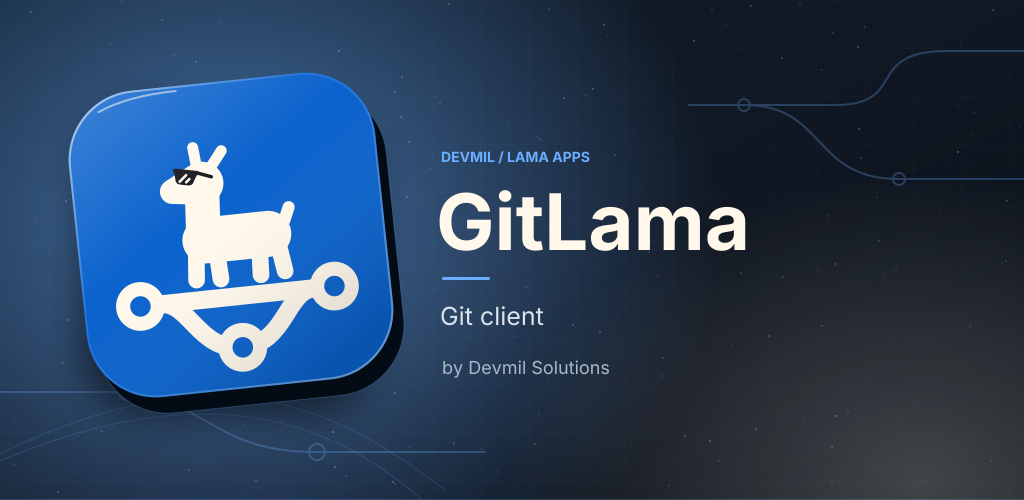
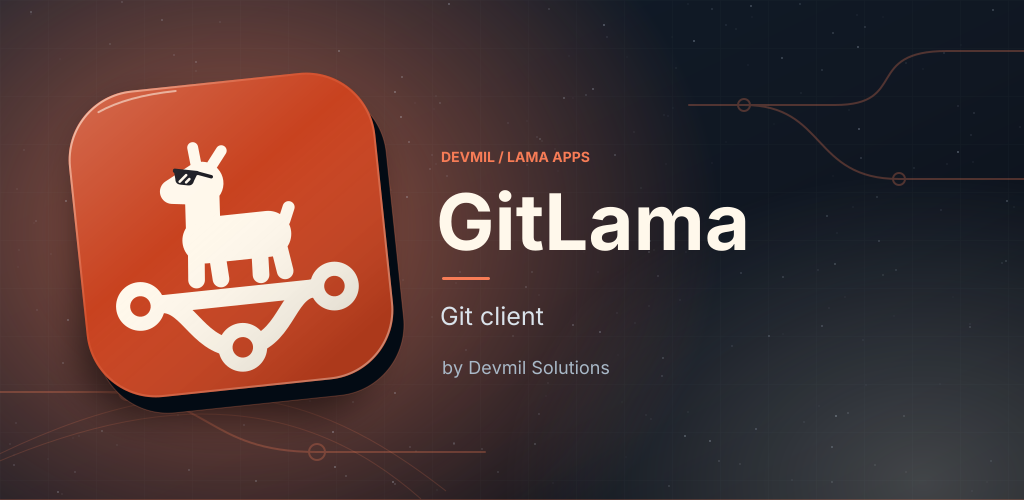
Sync website from Forgejo
Mirrored from 39ee3dba87409b9ac7bc3bf95918a014e00b3d59.

diff --git a/webfront/index.html b/webfront/index.html
@@ -11,26 +11,26 @@
   <meta property="og:type" content="website">
   <meta property="og:title" content="GitLama · Your repository, in view">
   <meta property="og:description" content="A desktop Git client that keeps the history graph, your changes and the selected diff in one window.">
-  <meta property="og:image" content="https://devmil.de/gitlama/assets/feature-graphic.png">
+  <meta property="og:image" content="https://devmil.de/gitlama/assets/feature-graphic.png?v=1e86ea4f6209">
   <meta property="og:image:width" content="1024">
   <meta property="og:image:height" content="500">
   <meta name="twitter:card" content="summary_large_image">
-  <meta name="twitter:image" content="https://devmil.de/gitlama/assets/feature-graphic.png">
+  <meta name="twitter:image" content="https://devmil.de/gitlama/assets/feature-graphic.png?v=1e86ea4f6209">
   <title>GitLama · Your repository, in view</title>
-  <link rel="icon" href="assets/icon-32.png">
-  <link rel="stylesheet" href="style.css">
-  <link rel="stylesheet" href="assets/lama/lama-antics.css">
+  <link rel="icon" href="assets/icon-32.png?v=ded39c688ec2">
+  <link rel="stylesheet" href="style.css?v=4e3ef193cd52">
+  <link rel="stylesheet" href="assets/lama/lama-antics.css?v=dee389f948ea">
   <script type="application/ld+json">{"@context":"https://schema.org","@type":"SoftwareApplication","name":"GitLama","applicationCategory":"DeveloperApplication","operatingSystem":"macOS, Linux, Windows","license":"https://www.gnu.org/licenses/gpl-3.0.html","description":"A desktop Git client built with Flutter and Rust."}</script>
   <script>document.documentElement.classList.add("js")</script>
-  <script src="releases.js" defer></script>
-  <script src="assets/lama/lama-antics.js" defer></script>
-  <script src="site.js" defer></script>
+  <script src="releases.js?v=e40c5bdca0ee" defer></script>
+  <script src="assets/lama/lama-antics.js?v=d94b524e100f" defer></script>
+  <script src="site.js?v=f497828549a1" defer></script>
   <script type="application/ld+json">{"@context":"https://schema.org","@type":"SoftwareApplication","name":"GitLama","url":"https://devmil.de/gitlama/","applicationCategory":"DeveloperApplication","operatingSystem":"macOS, Linux, Windows","author":{"@type":"Organization","name":"Devmil Solutions"}}</script>
 </head>
 <body>
   <a class="skip-link" href="#main">Skip to content</a>
   <header class="site-header">
-    <a href="index.html" class="brand" aria-label="GitLama home"><img src="assets/icon-64.png" width="32" height="32" alt="">GitLama</a>
+    <a href="index.html" class="brand" aria-label="GitLama home"><img src="assets/icon-64.png?v=69a1990e1cdb" width="32" height="32" alt="">GitLama</a>
     <nav class="compass" aria-label="Primary">
       <a href="#features">Features</a>
       <a href="#downloads">Download</a>
@@ -50,7 +50,7 @@
           <h1 id="hero-title">Your repository,<br>in view.</h1>
           <p class="intro">GitLama is a desktop Git client. It keeps the history graph, your changes and the selected diff in one window.</p>
           <div class="actions">
-            <a id="hero-download" class="button primary" href="#downloads"><span class="icon" style="--icon:url(assets/icons/download.svg)"></span><span>Download</span></a>
+            <a id="hero-download" class="button primary" href="#downloads"><span class="icon" style="--icon:url(assets/icons/download.svg?v=5ed7b99977ca)"></span><span>Download</span></a>
             <a class="button secondary" href="#features">What it does</a>
           </div>
           <p class="hero-note"><span id="hero-release" class="mono"></span>Beta. Free software under GPL-3.0-or-later. Built with Flutter and Rust.</p>
@@ -62,8 +62,8 @@
           <svg viewBox="0 0 200 120" focusable="false">
             <defs>
               <linearGradient id="trunk-fade" gradientUnits="userSpaceOnUse" x1="2" y1="0" x2="180" y2="0">
-                <stop offset="0" stop-color="#6AAEFF" stop-opacity="0"/>
-                <stop offset="0.35" stop-color="#6AAEFF"/>
+                <stop offset="0" stop-color="#F77C56" stop-opacity="0"/>
+                <stop offset="0.35" stop-color="#F77C56"/>
               </linearGradient>
             </defs>
             <path class="trunk" d="M2 87H180" stroke="url(#trunk-fade)"/>
@@ -74,8 +74,8 @@
             <circle id="merge-head" class="node head" cx="180" cy="87" r="5"/>
             <circle id="commit-runner" class="runner" cx="100" cy="87" r="4"/>
             <g id="hero-lama" class="hero-lama is-hello">
-              <image class="pose proud" href="assets/lama/lama-proud.svg" x="98" y="17.8" width="72" height="72"/>
-              <image class="pose hello" href="assets/lama/lama-standing-nod.svg" x="98" y="17.8" width="72" height="72"/>
+              <image class="pose proud" href="assets/lama/lama-proud.svg?v=a8d927b48be1" x="98" y="17.8" width="72" height="72"/>
+              <image class="pose hello" href="assets/lama/lama-standing-nod.svg?v=5c385b984c76" x="98" y="17.8" width="72" height="72"/>
             </g>
           </svg>
         </div>
@@ -92,8 +92,8 @@
           </div>
         </div>
         <picture>
-          <source srcset="assets/workspace-dark.png" media="(prefers-color-scheme: dark)">
-          <img id="shot" src="assets/workspace-light.png" width="2880" height="1800" alt="The GitLama workspace: a sidebar with branches, remotes and tags, the history graph with a merged feature branch, and below it the selected commit with its changed files">
+          <source srcset="assets/workspace-dark.png?v=391c47f2f62d" media="(prefers-color-scheme: dark)">
+          <img id="shot" src="assets/workspace-light.png?v=199d791dea82" width="2880" height="1800" alt="The GitLama workspace: a sidebar with branches, remotes and tags, the history graph with a merged feature branch, and below it the selected commit with its changed files">
         </picture>
       </div>
       <p class="caption">The sidebar on the left, the history graph at the top, the selected commit below. Rendered from the app with sample data.</p>
@@ -107,32 +107,32 @@
       </div>
       <div class="feature-grid">
         <article class="reveal">
-          <div class="feature-icon"><span class="icon" style="--icon:url(assets/icons/file-diff.svg)"></span></div>
+          <div class="feature-icon"><span class="icon" style="--icon:url(assets/icons/file-diff.svg?v=84daf4df8856)"></span></div>
           <h3>Changes</h3>
           <p>Stage files, hunks or single lines. View diffs unified or split, including images and other encodings. Commit with amend, sign-off, templates and co-authors.</p>
         </article>
         <article class="reveal" style="--i:1">
-          <div class="feature-icon"><span class="icon" style="--icon:url(assets/icons/git-branch.svg)"></span></div>
+          <div class="feature-icon"><span class="icon" style="--icon:url(assets/icons/git-branch.svg?v=12d7fc96969f)"></span></div>
           <h3>History</h3>
           <p>A history graph with file trees, blame and reflog. Compare two commits, search commit content and step through a bisect.</p>
         </article>
         <article class="reveal" style="--i:2">
-          <div class="feature-icon"><span class="icon" style="--icon:url(assets/icons/git-merge.svg)"></span></div>
+          <div class="feature-icon"><span class="icon" style="--icon:url(assets/icons/git-merge.svg?v=515872ccf317)"></span></div>
           <h3>Branches and rewriting</h3>
           <p>Create, rename, merge, cherry-pick and revert. Interactive rebase, autosquash and restacking show a preview before they run.</p>
         </article>
         <article class="reveal">
-          <div class="feature-icon"><span class="icon" style="--icon:url(assets/icons/cloud.svg)"></span></div>
+          <div class="feature-icon"><span class="icon" style="--icon:url(assets/icons/cloud.svg?v=735d969292fc)"></span></div>
           <h3>Remotes and hosting</h3>
           <p>Fetch, pull and push, with force-with-lease as an explicit choice. Connect GitHub, GitLab, Forgejo or Codeberg for pull requests and review drafts.</p>
         </article>
         <article class="reveal" style="--i:1">
-          <div class="feature-icon"><span class="icon" style="--icon:url(assets/icons/folder-git-2.svg)"></span></div>
+          <div class="feature-icon"><span class="icon" style="--icon:url(assets/icons/folder-git-2.svg?v=269c731e77f3)"></span></div>
           <h3>Worktrees and tools</h3>
           <p>Manage worktrees, submodules and Git LFS. Open your editor, terminal, diff or merge tool, and add your own commands.</p>
         </article>
         <article class="reveal" style="--i:2">
-          <div class="feature-icon"><span class="icon" style="--icon:url(assets/icons/undo-2.svg)"></span></div>
+          <div class="feature-icon"><span class="icon" style="--icon:url(assets/icons/undo-2.svg?v=60447ca8e645)"></span></div>
           <h3>Recovery</h3>
           <p>Resume conflicts and rebases after a restart. Named snapshots and per-repository undo let you step back. When an outcome is unclear, the app says so.</p>
         </article>
@@ -199,7 +199,7 @@
         <div class="island demo reveal" style="--i:1">
           <div id="diff-demo" class="diff-demo">
             <div class="diff-head"><span class="glyph" aria-hidden="true">M</span><span class="mono">lib/widgets/compass.dart</span><span id="diff-count" class="count" role="status">Unstaged</span></div>
-            <div class="hunk-head"><span class="hash" id="hunk-range">@@ -41,5 +41,7 @@</span><span class="hunk-context mono">void _onModifier</span><button type="button" id="stage-hunk" class="button small secondary"><span class="icon" style="--icon:url(assets/icons/stage-all.svg)"></span>Stage hunk</button></div>
+            <div class="hunk-head"><span class="hash" id="hunk-range">@@ -41,5 +41,7 @@</span><span class="hunk-context mono">void _onModifier</span><button type="button" id="stage-hunk" class="button small secondary"><span class="icon" style="--icon:url(assets/icons/stage-all.svg?v=2748897c2bc1)"></span>Stage hunk</button></div>
             <div id="diff-lines" class="diff-lines" role="group" aria-label="Model of an unstaged diff">
               <div class="dl"><span class="gutter"><span class="ln">41</span><span class="ln">41</span></span><span class="sign"> </span><code>  void _onModifier(bool held) {</code></div>
               <div class="dl del"><span class="gutter"><span class="ln">42</span><span class="ln"></span></span><span class="sign">-</span><code>    setState(() =&gt; _hints = held);</code></div>
@@ -212,7 +212,7 @@
             </div>
             <template id="diff-clean">
               <div class="diff-empty">
-                <span class="lama-tile"><img src="assets/lama/lama-resting.svg" width="64" height="64" alt=""></span>
+                <span class="lama-tile"><img src="assets/lama/lama-resting.svg?v=a92936df666c" width="64" height="64" alt=""></span>
                 <p><strong>Nothing left to stage.</strong> Edit the file again and the new changes appear here.</p>
               </div>
             </template>
@@ -224,7 +224,7 @@
 
     <section id="downloads" class="section wrap" aria-labelledby="downloads-title">
       <div class="download-stage reveal">
-        <span class="download-lama" aria-hidden="true"><img src="assets/lama/lama-standing.svg" width="120" height="120" alt=""></span>
+        <span class="download-lama" aria-hidden="true"><img src="assets/lama/lama-standing.svg?v=516278e37d01" width="120" height="120" alt=""></span>
         <div>
           <p class="eyebrow">Download</p>
           <h2 id="downloads-title">Get GitLama</h2>
@@ -242,7 +242,7 @@
           <pre>shasum -a 256 GitLama-*.dmg      # macOS
 sha256sum gitlama_*.deb          # Linux
 Get-FileHash GitLama-*.msi       # Windows PowerShell</pre>
-          <p class="trust-note"><span class="icon" style="--icon:url(assets/icons/shield-check.svg)"></span><span>The links on this page come from a release index signed with Ed25519. <a href="northspline-release-ed25519.pub">Public key</a></span></p>
+          <p class="trust-note"><span class="icon" style="--icon:url(assets/icons/shield-check.svg?v=a113fc3eaa03)"></span><span>The links on this page come from a release index signed with Ed25519. <a href="northspline-release-ed25519.pub">Public key</a></span></p>
         </details>
       </div>
       <noscript><p class="release-status">JavaScript is required to show the download links.</p></noscript>

diff --git a/webfront/style.css b/webfront/style.css
@@ -1,4 +1,4 @@
-/* GitLama website on Meridian: islands on a tinted ground, one polar
+/* GitLama website on Meridian: islands on a tinted ground, one ember
    accent spent on intent, the spline graph as the signature. Colours are the
    GitLama brand of meridian_ui (light and dark); lane colours describe
    topology only. Depth has two levels, shadow-pane and shadow-float.
@@ -7,7 +7,7 @@
 
 @font-face {
   font-family: "JetBrains Mono";
-  src: url("assets/fonts/JetBrainsMono-Regular.woff2") format("woff2");
+  src: url("assets/fonts/JetBrainsMono-Regular.woff2?v=5090862b5603") format("woff2");
   font-weight: 400; font-style: normal; font-display: swap;
 }
 
@@ -24,19 +24,18 @@
   --ink-faint: #8795A0;
   --line: #D8DFE3;
   --line-strong: #C3CCD1;
-  --accent: #0A62CC;
-  --accent-hover: #0853AD;
+  --accent: #C8421F;
+  --accent-hover: #A9381A;
   --on-accent: #FFFFFF;
-  --accent-soft: #DCEBFD;
-  --accent-ink: #0A58B8;
-  --focus: #0A62CC;
-  --fjord: #14242B;
-  --brand: #14242B;
-  --brand-ink: #F4F7F8;
-  --brand-muted: #A9BAC2;
-  --brand-accent: #6AAEFF;
-  --brand-on-accent: #04121C;
-  --brand-line: rgba(244, 247, 248, 0.16);
+  --accent-soft: #FFE5DE;
+  --accent-ink: #B73918;
+  --focus: #C8421F;
+  --brand: #53261B;
+  --brand-ink: #FFF4F1;
+  --brand-muted: #E0B9AE;
+  --brand-accent: #F77C56;
+  --brand-on-accent: #1B0A07;
+  --brand-line: rgba(255, 244, 241, 0.16);
   --danger: #B42318;
   --added: #16733A;
   --added-bg: #E6F4EA;
@@ -85,13 +84,12 @@
     --ink-faint: #5E717B;
     --line: #21323B;
     --line-strong: #2C414B;
-    --accent: #6AAEFF;
-    --accent-hover: #8CC2FF;
-    --on-accent: #04121C;
-    --accent-soft: #16334D;
-    --accent-ink: #8CC2FF;
-    --focus: #8CC2FF;
-    --fjord: #1F3A48;
+    --accent: #F77C56;
+    --accent-hover: #FAAA95;
+    --on-accent: #1B0A07;
+    --accent-soft: #45231A;
+    --accent-ink: #FAAA95;
+    --focus: #FAAA95;
     --danger: #FF9C8F;
     --added: #4AC26B;
     --added-bg: #0F2E1C;
@@ -152,7 +150,7 @@ code, .mono, pre { font-family: var(--font-mono); font-size: 0.875em; font-varia
 }
 
 /* Header: chrome sits straight on the ground. The navigation is the Compass,
-   a pill whose polar rule follows the page's scroll progress. */
+   a pill whose accent rule follows the page's scroll progress. */
 .site-header {
   position: sticky; top: 0; z-index: 20;
   min-height: var(--header);
@@ -237,7 +235,7 @@ h3 { font-size: 16px; line-height: 1.3; margin: 0 0 6px; font-weight: 600; }
   --ground: var(--brand);
   --lane-1: #6AAEFF; --lane-2: #3DD6C0; --lane-3: #F2C14E; --lane-4: #FF8A5B;
   --lane-5: #FF6B9A; --lane-6: #B49BFF; --lane-7: #4CC9F0; --lane-8: #A3D65C;
-  --focus: #8CC2FF;
+  --focus: #FAAA95;
   position: relative; overflow: hidden; isolation: isolate;
   max-width: calc(var(--max) + 2 * var(--gutter) + 160px); margin-inline: auto;
   min-height: min(760px, calc(100svh - var(--header) - 24px));
@@ -266,12 +264,12 @@ h3 { font-size: 16px; line-height: 1.3; margin: 0 0 6px; font-weight: 600; }
 .hero .intro { color: var(--brand-muted); font-size: 19px; max-width: 520px; margin: 0; }
 .actions { display: flex; flex-wrap: wrap; gap: 12px; margin-top: 30px; }
 .hero .button.primary { background: var(--brand-accent); color: var(--brand-on-accent); }
-.hero .button.primary:hover { background: #8CC2FF; }
+.hero .button.primary:hover { background: #FAAA95; }
 .hero .button.secondary {
   background: transparent; color: var(--brand-ink);
   border-color: var(--brand-line); box-shadow: none;
 }
-.hero .button.secondary:hover { background: rgba(244, 247, 248, 0.08); }
+.hero .button.secondary:hover { background: rgba(255, 244, 241, 0.08); }
 .hero-note { margin: 18px 0 0; font-size: 14px; color: var(--brand-muted); }
 .hero-note .mono:not(:empty)::after { content: " · "; }
 
@@ -406,7 +404,7 @@ h3 { font-size: 16px; line-height: 1.3; margin: 0 0 6px; font-weight: 600; }
 .graph-demo .l2 { stroke: var(--lane-2); }
 .graph-demo .dot.l1 { fill: var(--lane-1); }
 .graph-demo .dot.l2 { fill: var(--lane-2); }
-/* On the selected row, strokes and rings paint in on-polar. */
+/* On the selected row, strokes and rings paint in on-accent. */
 .graph-demo circle.on { stroke: var(--on-accent); fill: var(--accent); }
 .graph-demo .dot.on { fill: var(--on-accent); }
 .graph-demo path, .graph-demo circle, .graph-demo .row > * { transition: opacity 120ms, stroke-width 120ms; }
@@ -521,7 +519,7 @@ button.gutter:focus-visible { outline-offset: -2px; border-radius: var(--radius-
 /* With nothing to show, the resting Lama nods at the empty list. */
 .release-status::before, .release-list:not(:has(.release-record))::before {
   content: ""; flex: none; width: 56px; height: 56px; border-radius: 14px;
-  background: url("assets/lama/lama-nod.svg") center / 48px no-repeat var(--brand);
+  background: url("assets/lama/lama-nod.svg?v=fffbdbba65ac") center / 48px no-repeat var(--brand);
 }
 .release-list:not(:has(.release-record)) { display: flex; align-items: center; gap: 16px; color: var(--ink-muted); }
 .release-bar {
@@ -598,8 +596,8 @@ footer strong { color: var(--ink); }
 /* The family signature: 16 px tall, in ink-faint. */
 .signature {
   flex: none; width: 17.23px; height: 16px; margin-top: 4px; background: var(--ink-faint);
-  -webkit-mask: url("assets/lama/lama-signature.svg") center / contain no-repeat;
-  mask: url("assets/lama/lama-signature.svg") center / contain no-repeat;
+  -webkit-mask: url("assets/lama/lama-signature.svg?v=f42d5d84b9d9") center / contain no-repeat;
+  mask: url("assets/lama/lama-signature.svg?v=f42d5d84b9d9") center / contain no-repeat;
 }
 footer p { margin: 4px 0 0; font-size: 14px; }
 footer nav { display: flex; gap: 6px; align-items: center; }

diff --git a/webfront/privacy.html b/webfront/privacy.html
@@ -1,3 +1,3 @@
 <!doctype html><html lang="en"><head>
   <link rel="canonical" href="https://devmil.de/gitlama/privacy.html">
-  <meta property="og:url" content="https://devmil.de/gitlama/privacy.html"><meta charset="utf-8"><meta name="theme-color" content="#E8ECEE" media="(prefers-color-scheme: light)"><meta name="theme-color" content="#0B151A" media="(prefers-color-scheme: dark)"><meta name="viewport" content="width=device-width, initial-scale=1"><meta name="description" content="GitLama website privacy information."><title>Privacy · GitLama</title><link rel="icon" href="assets/icon-32.png"><link rel="stylesheet" href="style.css"></head><body><a class="skip-link" href="#main">Skip to content</a><header class="site-header"><a href="index.html" class="brand" aria-label="GitLama home"><img src="assets/icon-64.png" width="32" height="32" alt="">GitLama</a><nav class="compass" aria-label="Primary"><a href="index.html#features">Features</a><a href="index.html#downloads">Download</a><a href="releases.html">Release notes</a></nav></header><main id="main" class="legal"><div class="island"><p class="eyebrow">PRIVACY</p><h1>A static site without surveillance.</h1><p>This website uses no analytics, advertising, tracking pixels, cookies or third-party scripts. Its release data is a static signed document. The web host may process ordinary request metadata such as IP address, time, requested path and user agent under the host’s own operational policy.</p><h2>The desktop app</h2><p>GitLama works with repositories and hosting accounts that you choose. Repository content and credentials are not sent to Devmil. Network access occurs only for Git remotes, hosting connections or external tools you configure. Credentials use operating-system storage and are excluded from application logs.</p><h2>Contact and changes</h2><p>Privacy corrections belong in the GitLama source repository. Material changes to this notice are versioned with the site.</p></div></main><footer><div class="footer-brand"><span class="signature" aria-hidden="true"></span><div><strong>GitLama</strong><p>A desktop Git client by Devmil Solutions.</p></div></div><nav aria-label="Legal"><a href="license.html">License</a><a href="privacy.html" aria-current="page">Privacy</a></nav><p>No analytics. No tracking scripts.</p></footer></body></html>
+  <meta property="og:url" content="https://devmil.de/gitlama/privacy.html"><meta charset="utf-8"><meta name="theme-color" content="#E8ECEE" media="(prefers-color-scheme: light)"><meta name="theme-color" content="#0B151A" media="(prefers-color-scheme: dark)"><meta name="viewport" content="width=device-width, initial-scale=1"><meta name="description" content="GitLama website privacy information."><title>Privacy · GitLama</title><link rel="icon" href="assets/icon-32.png?v=ded39c688ec2"><link rel="stylesheet" href="style.css?v=4e3ef193cd52"></head><body><a class="skip-link" href="#main">Skip to content</a><header class="site-header"><a href="index.html" class="brand" aria-label="GitLama home"><img src="assets/icon-64.png?v=69a1990e1cdb" width="32" height="32" alt="">GitLama</a><nav class="compass" aria-label="Primary"><a href="index.html#features">Features</a><a href="index.html#downloads">Download</a><a href="releases.html">Release notes</a></nav></header><main id="main" class="legal"><div class="island"><p class="eyebrow">PRIVACY</p><h1>A static site without surveillance.</h1><p>This website uses no analytics, advertising, tracking pixels, cookies or third-party scripts. Its release data is a static signed document. The web host may process ordinary request metadata such as IP address, time, requested path and user agent under the host’s own operational policy.</p><h2>The desktop app</h2><p>GitLama works with repositories and hosting accounts that you choose. Repository content and credentials are not sent to Devmil. Network access occurs only for Git remotes, hosting connections or external tools you configure. Credentials use operating-system storage and are excluded from application logs.</p><h2>Contact and changes</h2><p>Privacy corrections belong in the GitLama source repository. Material changes to this notice are versioned with the site.</p></div></main><footer><div class="footer-brand"><span class="signature" aria-hidden="true"></span><div><strong>GitLama</strong><p>A desktop Git client by Devmil Solutions.</p></div></div><nav aria-label="Legal"><a href="license.html">License</a><a href="privacy.html" aria-current="page">Privacy</a></nav><p>No analytics. No tracking scripts.</p></footer></body></html>

diff --git a/webfront/license.html b/webfront/license.html
@@ -1,3 +1,3 @@
 <!doctype html><html lang="en"><head>
   <link rel="canonical" href="https://devmil.de/gitlama/license.html">
-  <meta property="og:url" content="https://devmil.de/gitlama/license.html"><meta charset="utf-8"><meta name="theme-color" content="#E8ECEE" media="(prefers-color-scheme: light)"><meta name="theme-color" content="#0B151A" media="(prefers-color-scheme: dark)"><meta name="viewport" content="width=device-width, initial-scale=1"><meta name="description" content="GitLama licensing information."><title>License · GitLama</title><link rel="icon" href="assets/icon-32.png"><link rel="stylesheet" href="style.css"></head><body><a class="skip-link" href="#main">Skip to content</a><header class="site-header"><a href="index.html" class="brand" aria-label="GitLama home"><img src="assets/icon-64.png" width="32" height="32" alt="">GitLama</a><nav class="compass" aria-label="Primary"><a href="index.html#features">Features</a><a href="index.html#downloads">Download</a><a href="releases.html">Release notes</a></nav></header><main id="main" class="legal"><div class="island"><p class="eyebrow">LICENSE</p><h1>Free software, with notices included.</h1><p>GitLama is distributed under the GNU General Public License, version 3 or later. You may use, study, modify and redistribute it under those terms.</p><p><a href="https://www.gnu.org/licenses/gpl-3.0.html" rel="noopener">Read the GPL-3.0 license text</a>.</p><h2>Third-party work</h2><p>Release packages include the project’s third-party notices and the generated Rust and Flutter dependency inventories. Those components remain under their respective licenses.</p><h2>No warranty</h2><p>GitLama is provided without warranty, to the extent permitted by applicable law. Review changes and backups before destructive repository operations.</p></div></main><footer><div class="footer-brand"><span class="signature" aria-hidden="true"></span><div><strong>GitLama</strong><p>A desktop Git client by Devmil Solutions.</p></div></div><nav aria-label="Legal"><a href="license.html" aria-current="page">License</a><a href="privacy.html">Privacy</a></nav><p>No analytics. No tracking scripts.</p></footer></body></html>
+  <meta property="og:url" content="https://devmil.de/gitlama/license.html"><meta charset="utf-8"><meta name="theme-color" content="#E8ECEE" media="(prefers-color-scheme: light)"><meta name="theme-color" content="#0B151A" media="(prefers-color-scheme: dark)"><meta name="viewport" content="width=device-width, initial-scale=1"><meta name="description" content="GitLama licensing information."><title>License · GitLama</title><link rel="icon" href="assets/icon-32.png?v=ded39c688ec2"><link rel="stylesheet" href="style.css?v=4e3ef193cd52"></head><body><a class="skip-link" href="#main">Skip to content</a><header class="site-header"><a href="index.html" class="brand" aria-label="GitLama home"><img src="assets/icon-64.png?v=69a1990e1cdb" width="32" height="32" alt="">GitLama</a><nav class="compass" aria-label="Primary"><a href="index.html#features">Features</a><a href="index.html#downloads">Download</a><a href="releases.html">Release notes</a></nav></header><main id="main" class="legal"><div class="island"><p class="eyebrow">LICENSE</p><h1>Free software, with notices included.</h1><p>GitLama is distributed under the GNU General Public License, version 3 or later. You may use, study, modify and redistribute it under those terms.</p><p><a href="https://www.gnu.org/licenses/gpl-3.0.html" rel="noopener">Read the GPL-3.0 license text</a>.</p><h2>Third-party work</h2><p>Release packages include the project’s third-party notices and the generated Rust and Flutter dependency inventories. Those components remain under their respective licenses.</p><h2>No warranty</h2><p>GitLama is provided without warranty, to the extent permitted by applicable law. Review changes and backups before destructive repository operations.</p></div></main><footer><div class="footer-brand"><span class="signature" aria-hidden="true"></span><div><strong>GitLama</strong><p>A desktop Git client by Devmil Solutions.</p></div></div><nav aria-label="Legal"><a href="license.html" aria-current="page">License</a><a href="privacy.html">Privacy</a></nav><p>No analytics. No tracking scripts.</p></footer></body></html>

diff --git a/webfront/releases.html b/webfront/releases.html
@@ -1,3 +1,3 @@
 <!doctype html><html lang="en"><head>
   <link rel="canonical" href="https://devmil.de/gitlama/releases.html">
-  <meta property="og:url" content="https://devmil.de/gitlama/releases.html"><meta charset="utf-8"><meta name="theme-color" content="#E8ECEE" media="(prefers-color-scheme: light)"><meta name="theme-color" content="#0B151A" media="(prefers-color-scheme: dark)"><meta name="viewport" content="width=device-width, initial-scale=1"><meta name="description" content="Verified GitLama release notes."><title>Release notes · GitLama</title><link rel="icon" href="assets/icon-32.png"><link rel="stylesheet" href="style.css"><script src="releases.js" defer></script></head><body><a class="skip-link" href="#main">Skip to content</a><header class="site-header"><a href="index.html" class="brand" aria-label="GitLama home"><img src="assets/icon-64.png" width="32" height="32" alt="">GitLama</a><nav class="compass" aria-label="Primary"><a href="index.html#features">Features</a><a href="index.html#downloads">Download</a><a href="releases.html" aria-current="page">Release notes</a></nav></header><main id="main" class="legal"><div class="island"><p class="eyebrow">RELEASE HISTORY</p><h1>Release notes</h1><p>These notes are rendered from the same signed, retained metadata as the download page.</p><div id="release-list" class="release-list" role="status" aria-live="polite">No verified public release is available yet.</div></div></main><footer><div class="footer-brand"><span class="signature" aria-hidden="true"></span><div><strong>GitLama</strong><p>A desktop Git client by Devmil Solutions.</p></div></div><nav aria-label="Legal"><a href="license.html">License</a><a href="privacy.html">Privacy</a></nav><p>No analytics. No tracking scripts.</p></footer></body></html>
+  <meta property="og:url" content="https://devmil.de/gitlama/releases.html"><meta charset="utf-8"><meta name="theme-color" content="#E8ECEE" media="(prefers-color-scheme: light)"><meta name="theme-color" content="#0B151A" media="(prefers-color-scheme: dark)"><meta name="viewport" content="width=device-width, initial-scale=1"><meta name="description" content="Verified GitLama release notes."><title>Release notes · GitLama</title><link rel="icon" href="assets/icon-32.png?v=ded39c688ec2"><link rel="stylesheet" href="style.css?v=4e3ef193cd52"><script src="releases.js?v=e40c5bdca0ee" defer></script></head><body><a class="skip-link" href="#main">Skip to content</a><header class="site-header"><a href="index.html" class="brand" aria-label="GitLama home"><img src="assets/icon-64.png?v=69a1990e1cdb" width="32" height="32" alt="">GitLama</a><nav class="compass" aria-label="Primary"><a href="index.html#features">Features</a><a href="index.html#downloads">Download</a><a href="releases.html" aria-current="page">Release notes</a></nav></header><main id="main" class="legal"><div class="island"><p class="eyebrow">RELEASE HISTORY</p><h1>Release notes</h1><p>These notes are rendered from the same signed, retained metadata as the download page.</p><div id="release-list" class="release-list" role="status" aria-live="polite">No verified public release is available yet.</div></div></main><footer><div class="footer-brand"><span class="signature" aria-hidden="true"></span><div><strong>GitLama</strong><p>A desktop Git client by Devmil Solutions.</p></div></div><nav aria-label="Legal"><a href="license.html">License</a><a href="privacy.html">Privacy</a></nav><p>No analytics. No tracking scripts.</p></footer></body></html>

diff --git a/webfront/assets/lama/lama-antics.js b/webfront/assets/lama/lama-antics.js
@@ -10,7 +10,7 @@
 
      const antics = LamaAntics.attach(lamaElement, {
        base: "assets/lama/",        // folder holding the pose SVGs
-       colors: ["#4C82FB", ...],    // confetti and hearts
+       colors: ["#24C27D", ...],    // confetti and hearts
        idle: { name: (api) => ... },// optional site antics
        taps: { name: (api) => ... },
      });

diff --git a/webfront/site.js b/webfront/site.js
@@ -359,7 +359,7 @@
     if (window.LamaAntics) {
       LamaAntics.attach(lama, {
         base: "assets/lama/",
-        colors: ["#6AAEFF", "#0A62CC", "#FFF8EB"],
+        colors: ["#F77C56", "#C8421F", "#FFF8EB"],
         taps: {
           commit: async (antic) => {
             if (!antic.reduced()) send();

diff --git a/webfront/README.md b/webfront/README.md
@@ -15,8 +15,8 @@ renders it from the verified index; it lists only packages that carry an
 update signature. Do not edit it by hand.
 
 The site follows Meridian's GitLama brand (light and dark from
-`prefers-color-scheme`): islands on the ground, `polar` only for intent, lane
-colours only for topology. The hero is a stage on the brand ground `#14242B`
+`prefers-color-scheme`): islands on the ground, the Git ember accent only for intent, lane
+colours only for topology. The hero is a stage on the brand ground `#53261B`
 where `site.js` draws the generated lane field with the Meridian graph geometry
 and lane-focus behaviour. The Lama stands on a merge there, as in the app icon:
 it opens with the hello pose, settles proud, and hops when a commit runs into
@@ -43,6 +43,13 @@ same mirror. The mirror owns only files recorded by
 line. It uses a separate checkout credential and a normal fast-forward push; it
 never force-pushes or claims an unrelated tree. GitHub Pages must be set to
 deploy from GitHub Actions in the mirror's settings.
+
+Local asset references in the pages and `style.css` carry a `?v=` content
+digest, so a returning browser fetches changed styles, scripts and images.
+After changing anything under `webfront/`, run
+`python3 scripts/generate_webfront_versions.py` (`scripts/generate-brand.py`
+runs it after copying brand derivatives); the website fixture fails while a
+digest is stale.
 
 Run the static and publication fixtures with:
 
